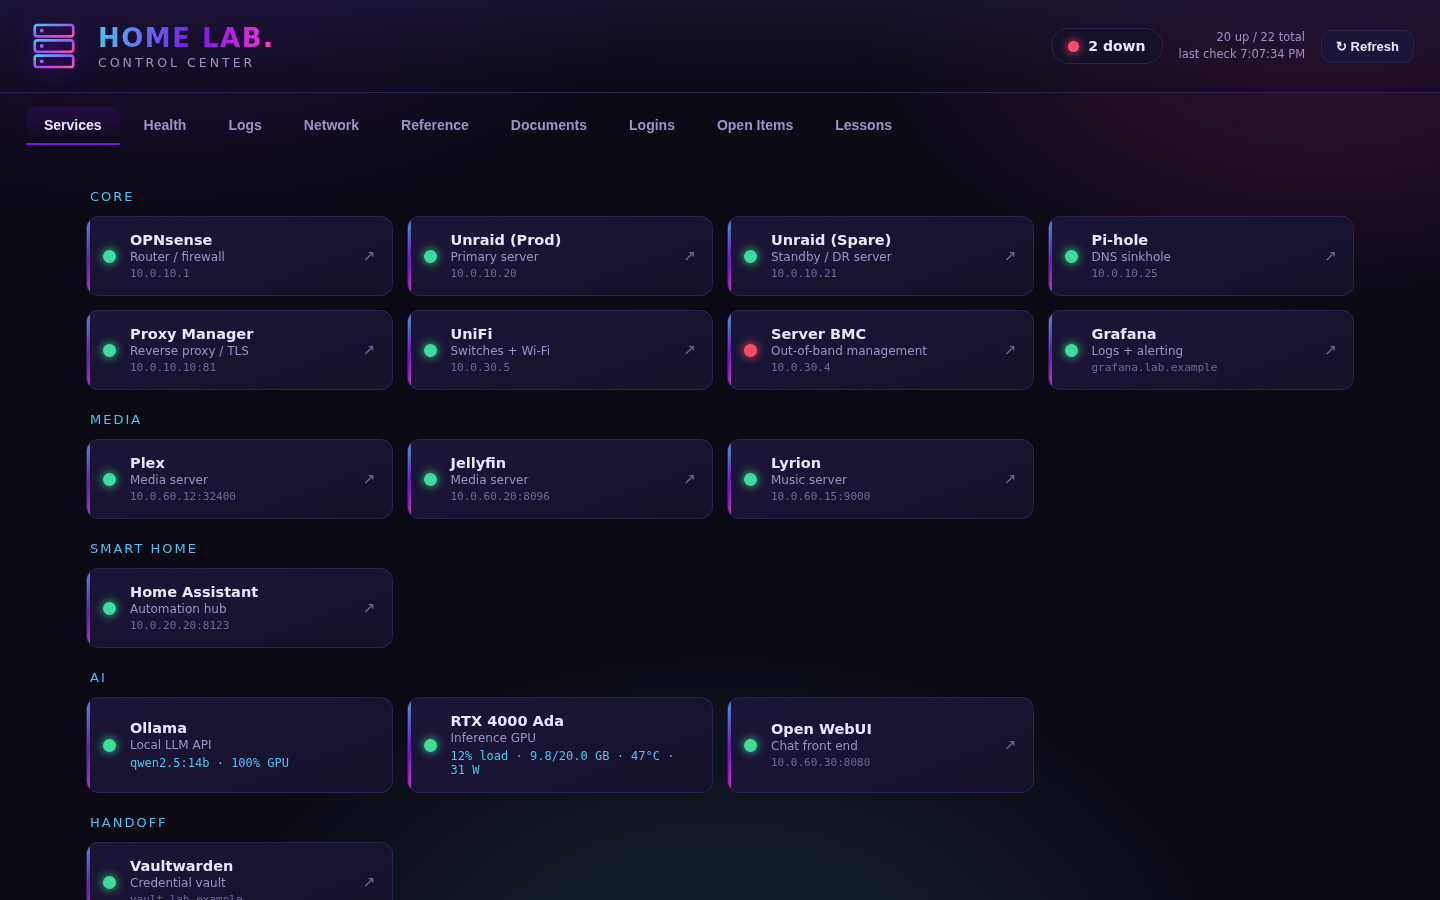
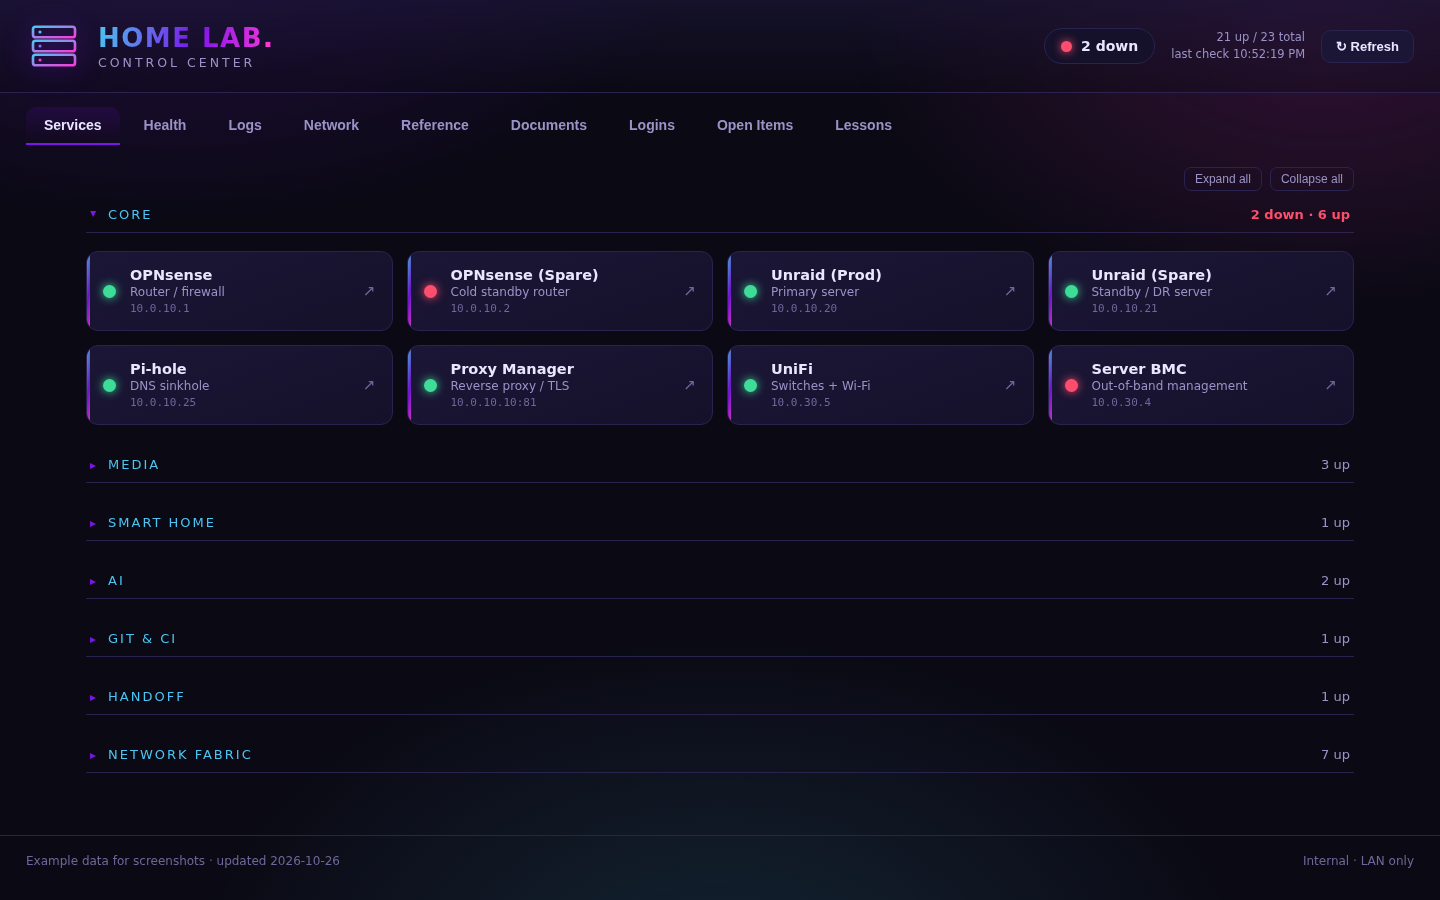
docs: collapsible Services sections and the live network diagram
Services groups fold with a live count on each header, and a section opens on its own while something in it is down. The Network tab's diagram shows live status on every box, a details panel on click, and wires coloured from the UniFi controller. New example screenshots for both; all data is made up.

diff --git a/README.md b/README.md
@@ -12,7 +12,9 @@ It runs on the lab's own Unraid server, stays on the LAN behind basic auth, and 
 ## What It Does
 
 ### Services
-Every service in the lab gets a tile, grouped by role (Core, Media, Smart Home, AI, Handoff). Each tile shows whether the service is up, refreshes every 30 seconds, and opens the service's web UI on click. The header keeps a running count ("20 up / 22 total") so a problem is visible from any tab.
+Every service in the lab gets a tile, grouped by role (Core, Media, Smart Home, AI, Git & CI, Handoff). Each tile shows whether the service is up, refreshes every 30 seconds, and opens the service's web UI on click. The header keeps a running count ("21 up / 23 total") so a problem is visible from any tab.
+
+Each group folds into a section, and a closed section's header still shows a live count, such as "2 down · 6 up". A section opens by itself while something in it is down and closes again once it recovers. Anything you open or close stays that way in your browser, and Expand all / Collapse all handle every section at once.
 
 Some tiles show live stats as well as up or down. The Ollama tile shows which model is loaded and how much of it sits on the GPU. The GPU tile shows load, VRAM, temperature and power.
 
@@ -30,6 +32,12 @@ Syslog from every server, the router and Home Assistant, collected in one place 
 
 ### Network
 A topology diagram of the whole network (router, switches, access points, servers) and the VLAN plan as an editable table.
+
+The diagram is live:
+- **Status on every box.** A dot shows whether each device answers: green up, red down, grey not checked yet. A cold-standby box is marked as standby, not as an outage.
+- **Click for details.** Clicking a box (or tabbing to it and pressing Enter) opens a side panel with its live status, its address and ports, and a link to its web UI.
+- **Wires from UniFi.** Each cable is coloured from its switch port on the UniFi controller: green 10 GbE, teal 2.5 GbE, cyan 1 GbE, amber slower, red link down. Hovering a wire shows both ends, the link speed, current traffic, PoE draw and errors. The panel adds what UniFi knows about the device: clients on an access point, ports up on a switch, and the mesh parent of a wireless extender.
+- **Honest when data is missing.** If the controller can't be read, the wires stay as drawn and a note under the diagram says why. If a reading goes stale, the last good one stays on screen, marked stale.
 
 ![Network](screenshots/network.png)
 
@@ -90,6 +98,7 @@ How it works:
 
 - **Web:** a static page served by nginx, with no build step and no framework. Editable tables save straight back to the server.
 - **API:** a small Python service using only the standard library. It checks each service's status, serves and stores the editable tables, and receives the daily health reports. The tables can only be read or changed through the dashboard itself.
+- **Link data:** the same service reads the UniFi controller every 30 seconds for each switch port's link state, speed and traffic, and each device's uplink.
 - **GPU stats:** a separate small service reads the GPU through the NVIDIA driver, so the main API needs no GPU access.
 - **Logs:** Grafana Alloy ships syslog to Loki, and Grafana shows it inside the Logs tab.
 - **AI:** Ollama on a local GPU answers AI Explain requests. The API reads evidence from Loki and sends the model only scrubbed text.
@@ -102,5 +111,6 @@ How it works:
 
 - LAN only, behind basic auth. Nothing is exposed to the internet.
 - No secrets live in the dashboard or its repository. Passwords stay in the vault.
-- The editable tables and AI Explain accept requests only from the dashboard's web server.
+- The editable tables, AI Explain and the link data accept requests only from the dashboard's web server.
+- UniFi is read with a View Only local account. Its login lives in a file on the server, never in the repository.
 - Health reports are accepted only from the lab's own servers, and each server can update only its own card.
